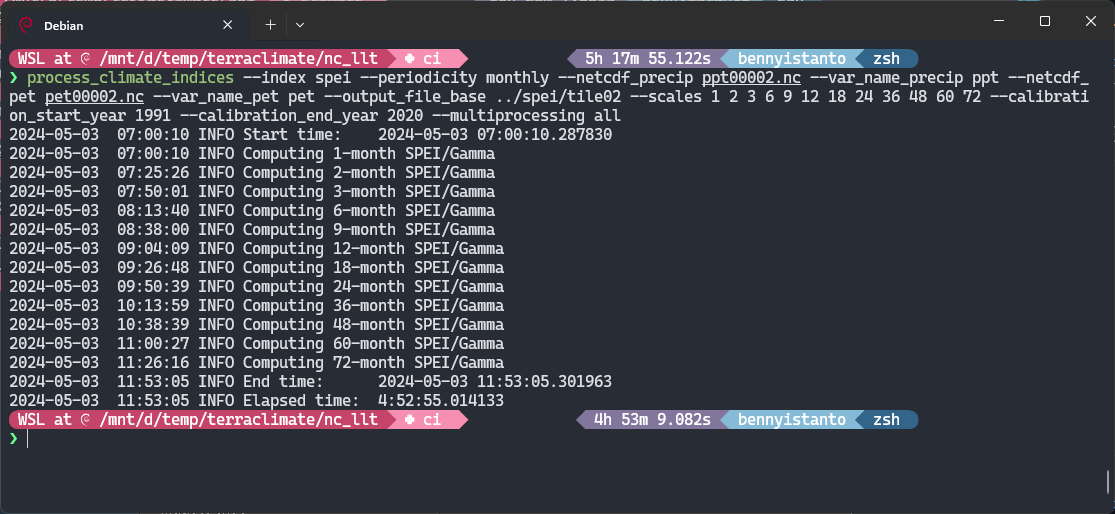
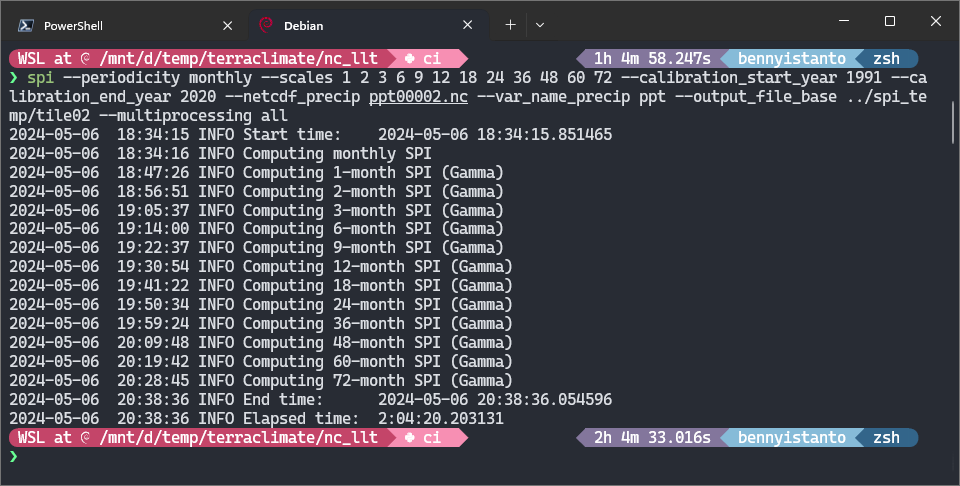
Update some page in blog post

diff --git a/docs/styles/styles.css b/docs/styles/styles.css
@@ -388,12 +388,18 @@ figcaption {
   padding: 0;
 }
 
-/* Gallery items */
+/* Gallery items.
+   The square used to sit on the TILE, with overflow:hidden. That clipped the
+   caption whenever the image was square or portrait: the image renders at its
+   natural aspect (height:100% is inert here, it resolves against an auto-height
+   <p>), so a tall image filled the square and pushed the caption outside the
+   clip. Landscape images happened to leave room, which is why it only failed
+   some of the time. Squaring the IMAGE instead keeps the grid uniform and lets
+   the tile grow so a caption is always visible. */
 .image-gallery .gallery-item {
   position: relative;
   overflow: hidden;
   border-radius: 0.5rem;
-  aspect-ratio: 1;
   cursor: pointer;
   transition: transform 0.3s ease, box-shadow 0.3s ease;
 }
@@ -405,10 +411,26 @@ figcaption {
 
 .image-gallery .gallery-item img {
   width: 100%;
-  height: 100%;
+  aspect-ratio: 1;
   object-fit: cover;
   display: block;
   transition: transform 0.3s ease;
+}
+
+.image-gallery .gallery-item figure {
+  margin: 0;
+}
+
+/* Caption under a gallery tile, for the posts that give one */
+.image-gallery .gallery-item figcaption {
+  padding: 0.5rem 0.6rem;
+  font-size: 0.8rem;
+  line-height: 1.35;
+  color: #666;
+}
+
+body.quarto-dark .image-gallery .gallery-item figcaption {
+  color: #ccc;
 }
 
 .image-gallery .gallery-item:hover img {
